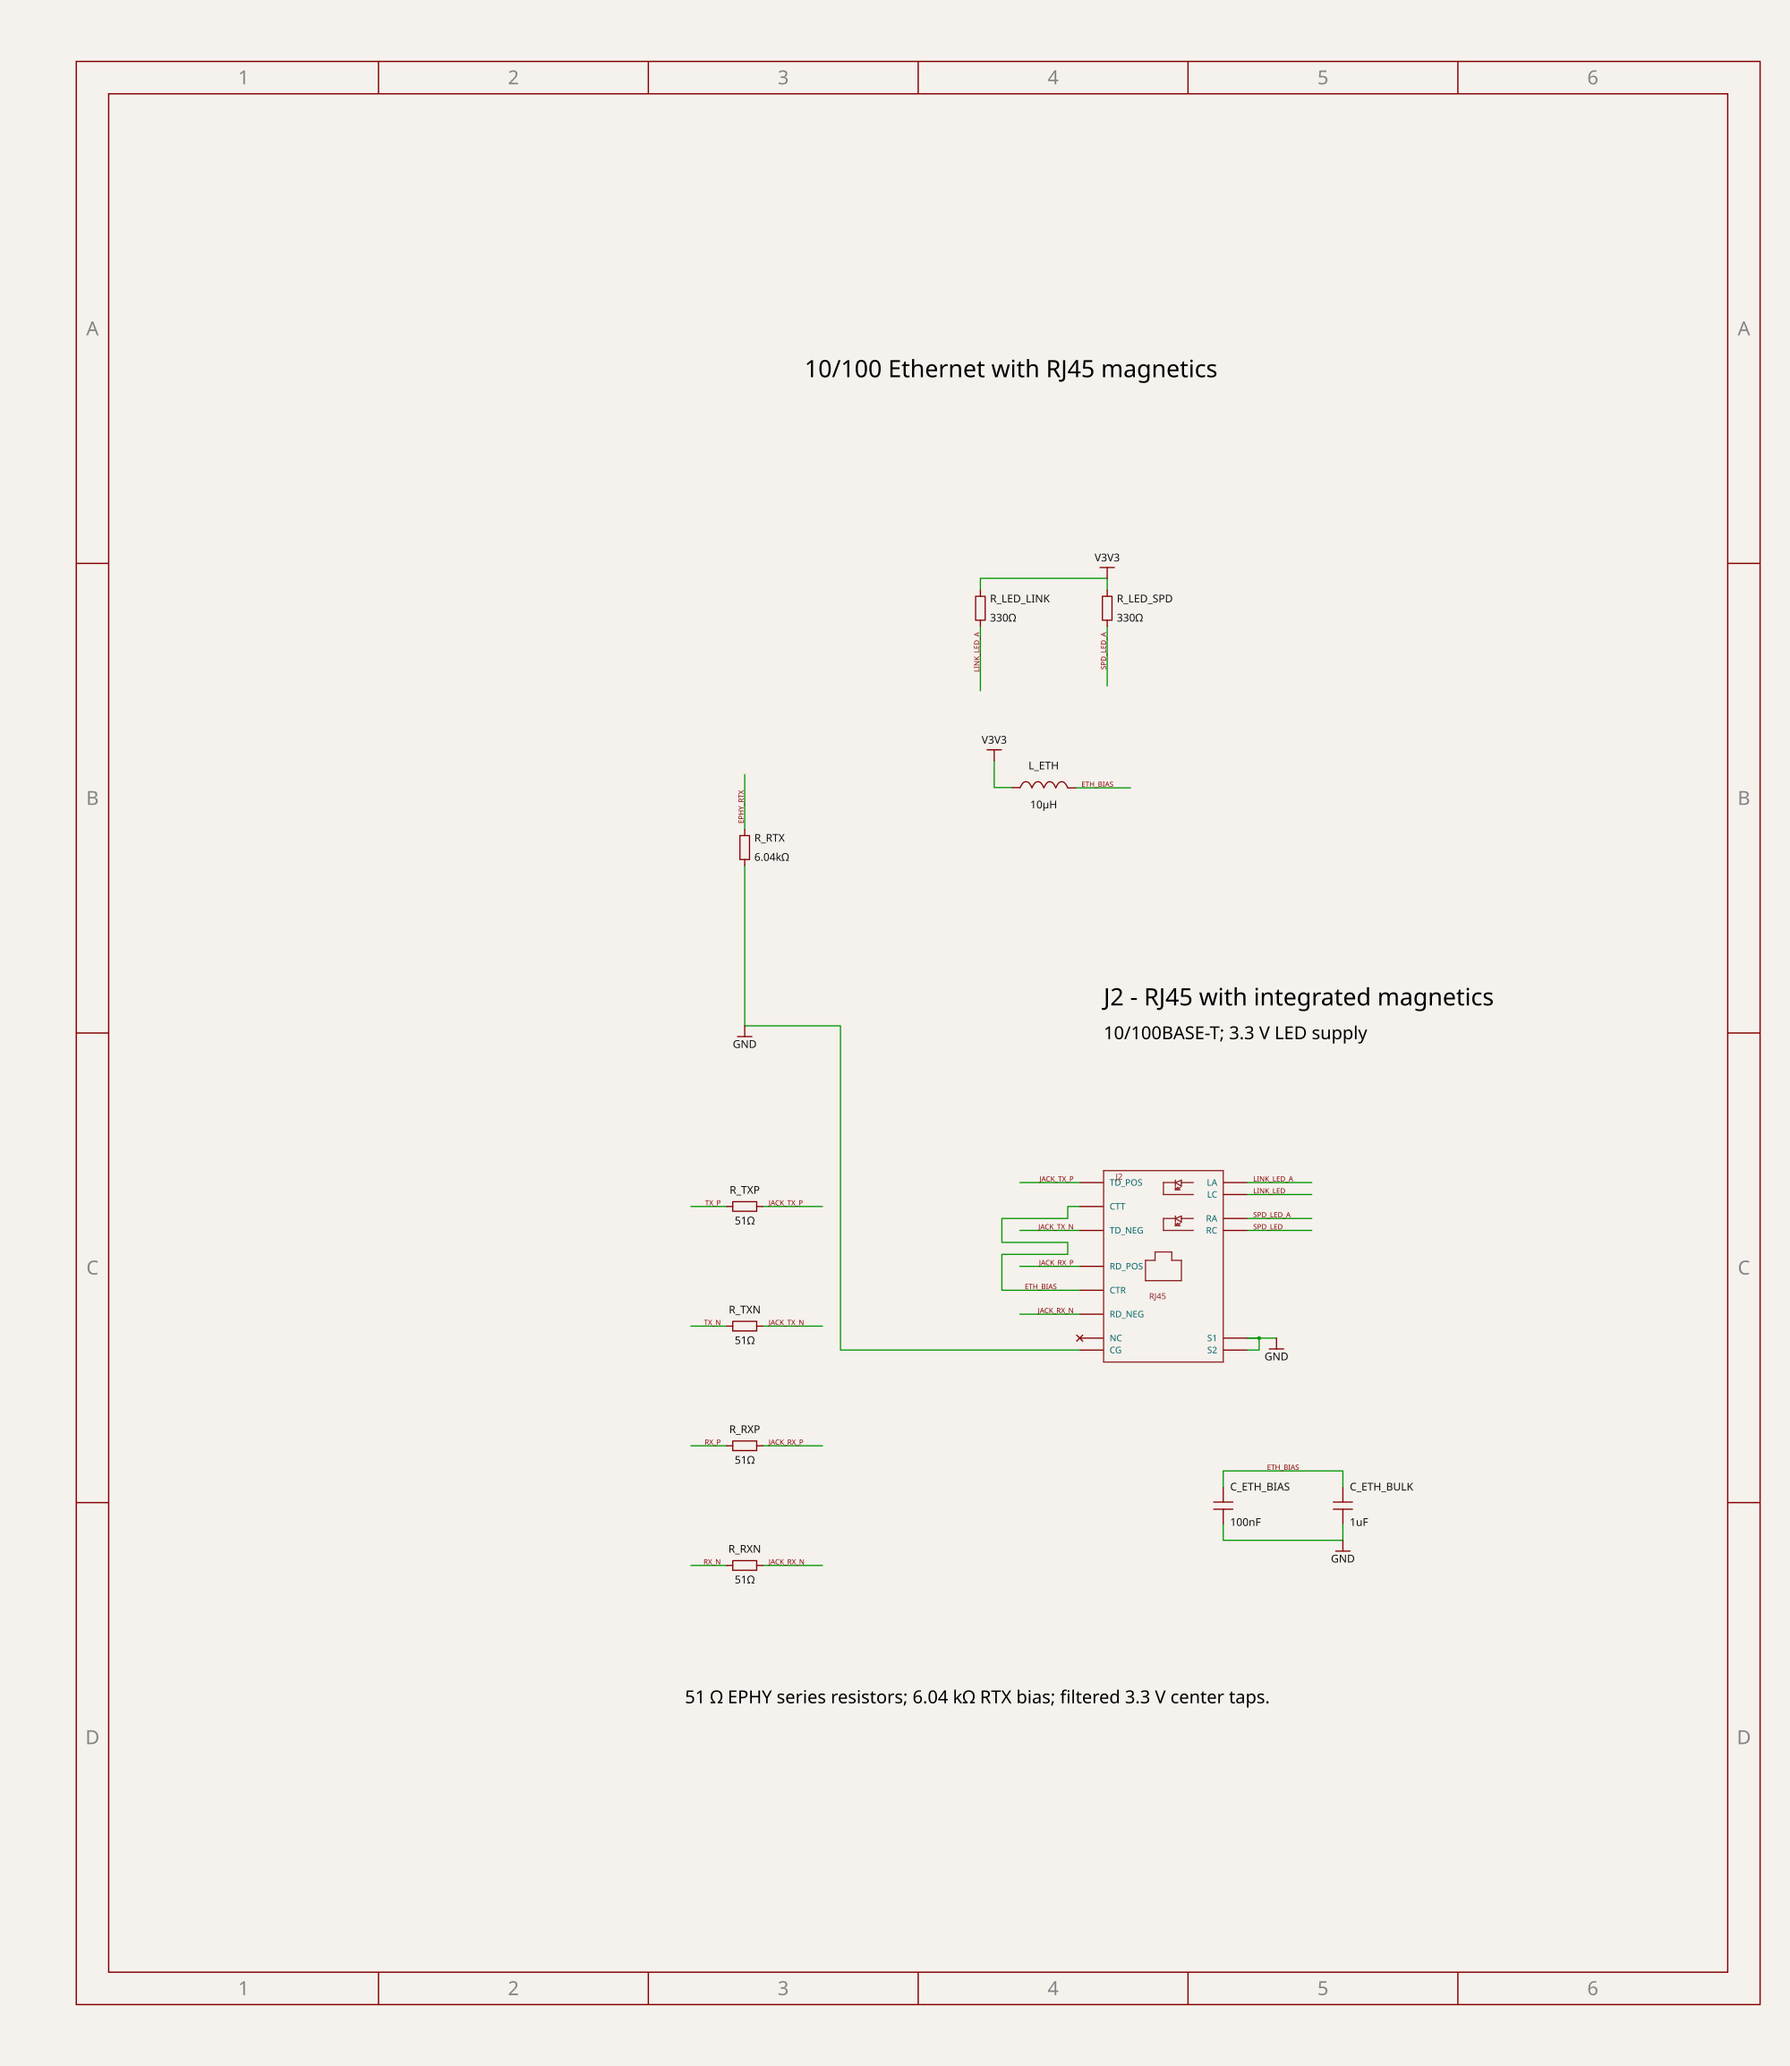
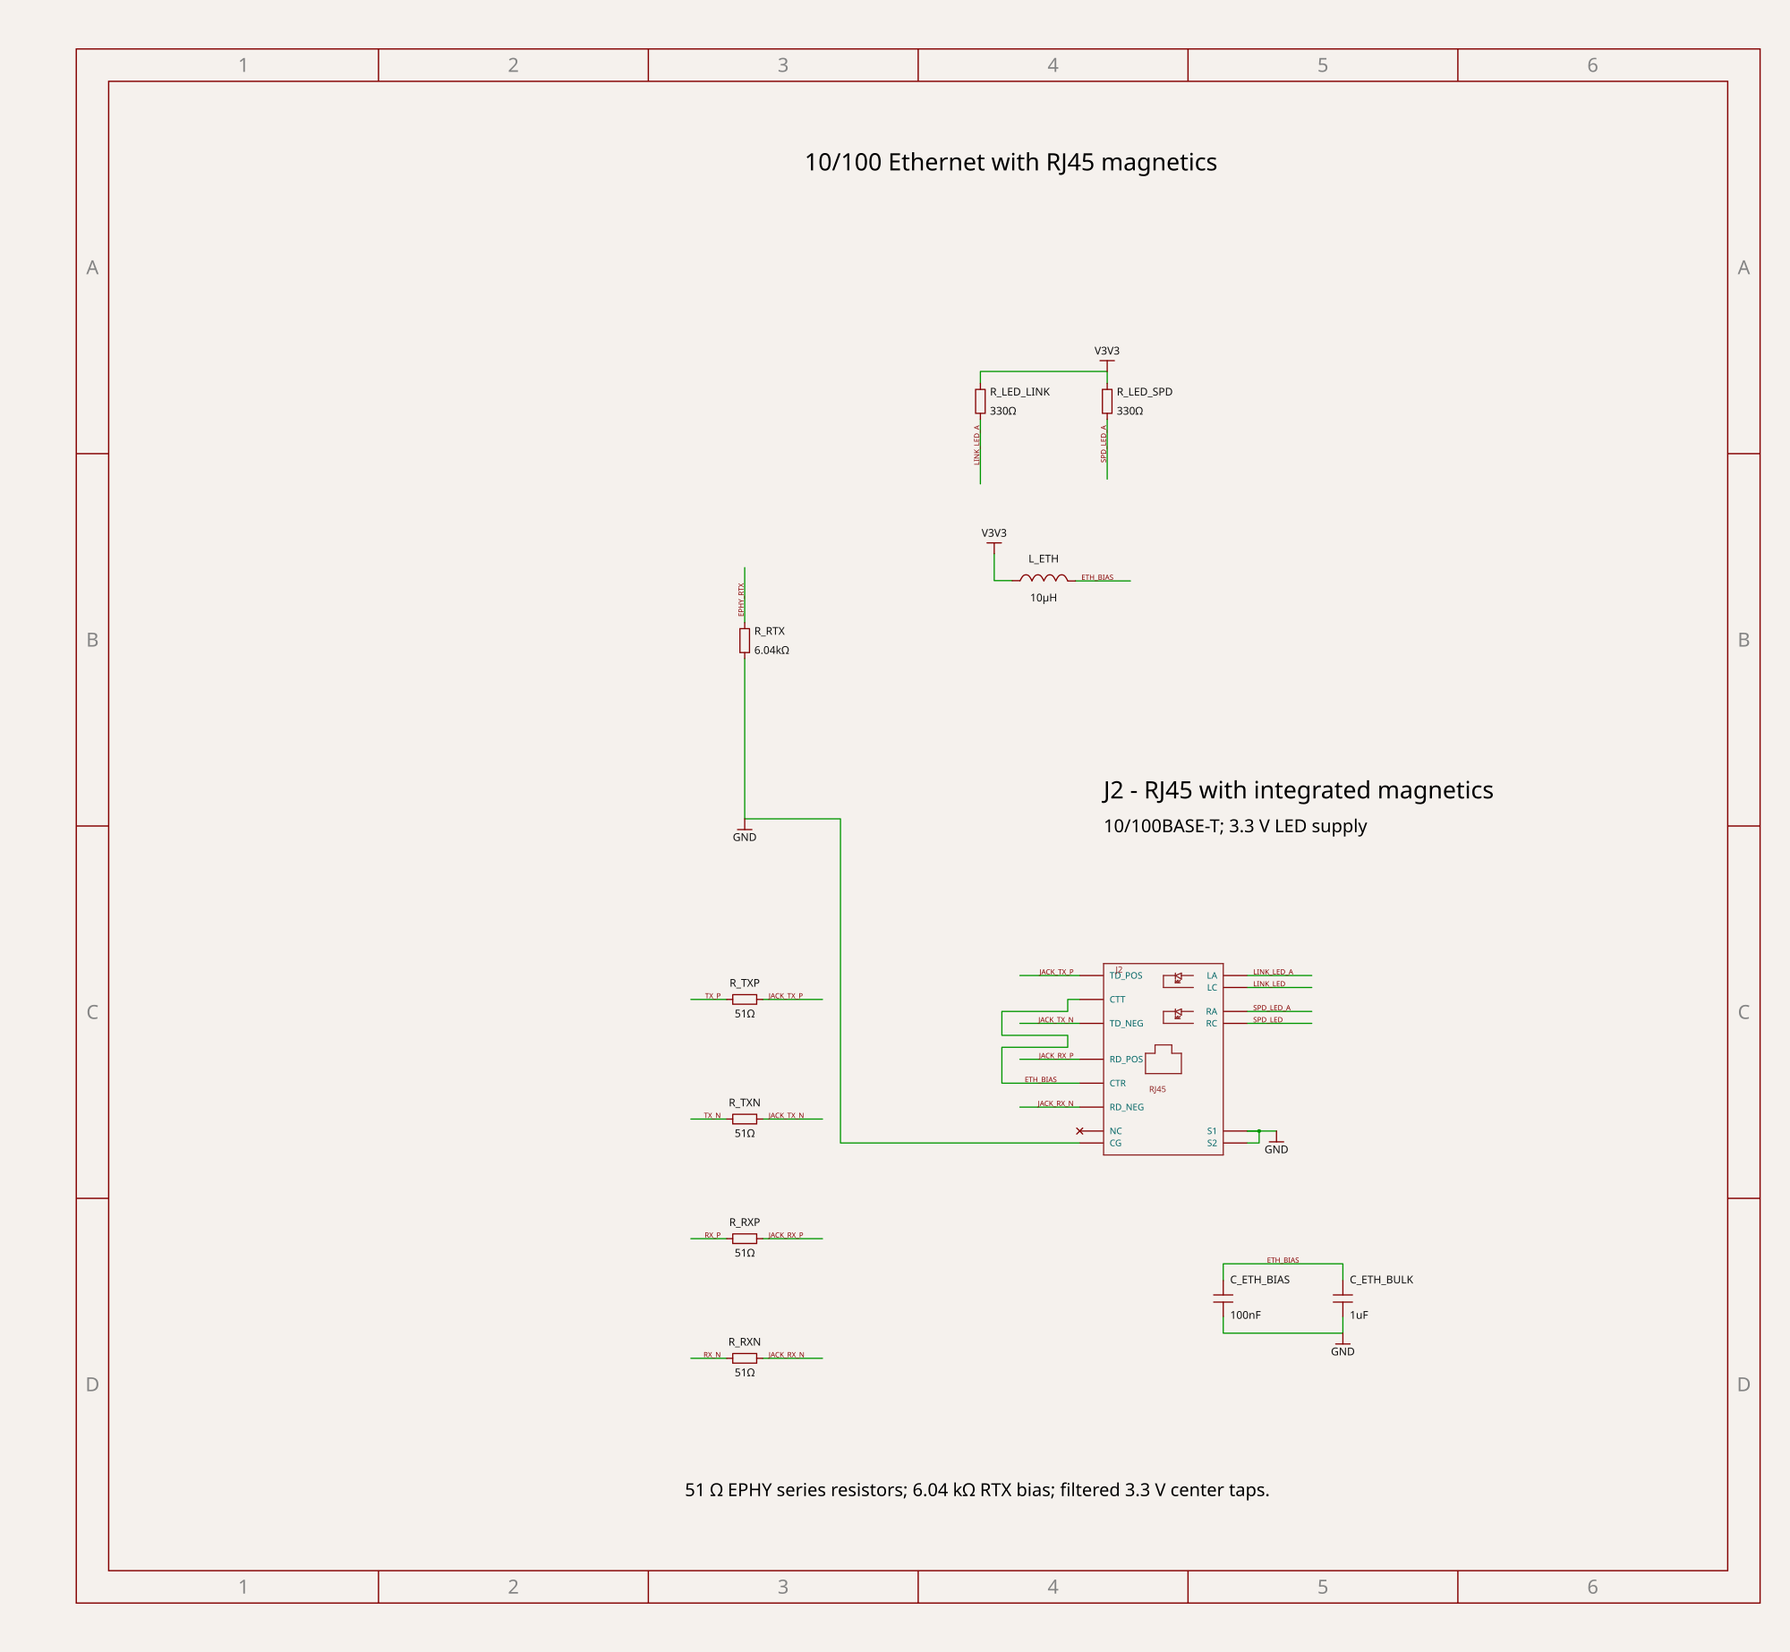
Tighten schematic sheet layouts

diff --git a/index.circuit.tsx b/index.circuit.tsx
@@ -208,24 +208,27 @@ const pcbReverse = new Set([
   "C_SD", "C_X24_IN", "C_X32_IN", "C_1V8_BULK", "C_DRAM_2", "C_DRAM_6", "C_IO_6", "C_PWRON",
 ])
 
+const powerSchematicY = (sectionName: string, y: number) =>
+  y + (sectionName === "pmic" ? 6 : 0)
+
 export default function MinimalV3sEthernet({ routingDisabled = false }: { routingDisabled?: boolean } = {}) {
   // Keep manual schematic coordinates fixed across sheets.
   return (
     <board width="80mm" height="70mm" layers={4} routingDisabled={routingDisabled} schLayout={{ layoutMode: "relative" }}>
       <copperpour connectsTo="net.GND" layer="inner1" clearance="0.15mm" boardEdgeMargin="0.25mm" />
-      <schematicsheet name="Power" displayName="Power input and PMIC" sheetIndex={0} sheetWidth="360mm" sheetHeight="520mm">
+      <schematicsheet name="Power" displayName="Power input and PMIC" sheetIndex={0} sheetWidth="360mm" sheetHeight="450mm">
         <schematicsection name="input" />
         <schematicsection name="pmic" />
         <schematictext text="USB-C input and 3.3 V regulator" schX={-35} schY={23} fontSize={0.4} anchor="left" />
         <schematictext text="USB1 is a 5 V sink; CC1 and CC2 each have a 5.1 kΩ pull-down." schX={-35} schY={22.2} fontSize={0.3} anchor="left" />
-        <schematictext text="PMIC and sequenced rails" schX={-33} schY={-4} fontSize={0.4} anchor="left" />
-        <schematictext text="U2 - AXP203 power manager" schX={-29.5} schY={-7} fontSize={0.4} anchor="left" />
-        <schematictext text="5 V in; 1.2 V core, 1.8 V DRAM, 3.0 V analog and 3.3 V RTC rails." schX={-29.5} schY={-7.6} fontSize={0.3} anchor="left" />
+        <schematictext text="PMIC and sequenced rails" schX={-33} schY={2} fontSize={0.4} anchor="left" />
+        <schematictext text="U2 - AXP203 power manager" schX={-29.5} schY={-1} fontSize={0.4} anchor="left" />
+        <schematictext text="5 V in; 1.2 V core, 1.8 V DRAM, 3.0 V analog and 3.3 V RTC rails." schX={-29.5} schY={-1.6} fontSize={0.3} anchor="left" />
         <schematictext text="U3 - AP61100 buck regulator" schX={-29.5} schY={16.3} fontSize={0.4} anchor="left" />
         <schematictext text="5 V to 3.3 V for I/O, microSD and Ethernet LEDs." schX={-29.5} schY={15.7} fontSize={0.3} anchor="left" />
-        <schematictext text="SW_PWR pulls PWRON low through R_PWRON to start the PMIC." schX={-34} schY={-24.5} fontSize={0.3} anchor="left" />
+        <schematictext text="SW_PWR pulls PWRON low through R_PWRON to start the PMIC." schX={-34} schY={-18.5} fontSize={0.3} anchor="left" />
       </schematicsheet>
-      <schematicsheet name="V3s" displayName="V3s and clocks" sheetIndex={1} sheetWidth="400mm" sheetHeight="420mm">
+      <schematicsheet name="V3s" displayName="V3s and clocks" sheetIndex={1} sheetWidth="400mm" sheetHeight="390mm">
         <schematicsection name="cpu" />
         <schematictext text="V3s, clocks and decoupling" schX={-11} schY={23.5} fontSize={0.4} anchor="left" />
         <schematictext text="U1 - Allwinner V3s SoC" schX={-11} schY={22.8} fontSize={0.4} anchor="left" />
@@ -234,14 +237,14 @@ export default function MinimalV3sEthernet({ routingDisabled = false }: { routin
         <schematictext text="Y1 provides the 24 MHz main clock with 12 pF load capacitance." schX={7} schY={9.8} fontSize={0.3} anchor="left" />
         <schematictext text="Y2 - 32.768 kHz RTC crystal" schX={10.5} schY={18.1} fontSize={0.4} anchor="left" />
       </schematicsheet>
-      <schematicsheet name="Ethernet" displayName="10/100 Ethernet" sheetIndex={2} sheetWidth="260mm" sheetHeight="300mm">
+      <schematicsheet name="Ethernet" displayName="10/100 Ethernet" sheetIndex={2} sheetWidth="260mm" sheetHeight="240mm">
         <schematicsection name="ethernet" />
         <schematictext text="10/100 Ethernet with RJ45 magnetics" schX={20} schY={19} fontSize={0.4} anchor="left" />
         <schematictext text="J2 - RJ45 with integrated magnetics" schX={25} schY={8.5} fontSize={0.4} anchor="left" />
         <schematictext text="10/100BASE-T; 3.3 V LED supply" schX={25} schY={7.9} fontSize={0.3} anchor="left" />
         <schematictext text="51 Ω EPHY series resistors; 6.04 kΩ RTX bias; filtered 3.3 V center taps." schX={18} schY={-3.2} fontSize={0.3} anchor="left" />
       </schematicsheet>
-      <schematicsheet name="Boot and UART" displayName="Boot and UART" sheetIndex={3} sheetWidth="400mm" sheetHeight="180mm">
+      <schematicsheet name="Boot and UART" displayName="Boot and UART" sheetIndex={3} sheetWidth="400mm" sheetHeight="100mm">
         <schematicsection name="boot" />
         <schematicsection name="uart" />
         <schematictext text="microSD boot" schX={-2} schY={-23.5} fontSize={0.4} anchor="left" />
@@ -251,7 +254,7 @@ export default function MinimalV3sEthernet({ routingDisabled = false }: { routin
       </schematicsheet>
 
       <V3s name="U1" pcbX={0} pcbY={0} schX={0} schY={0} schSectionName="cpu" schSheetName="V3s" />
-      <AXP203 name="U2" pcbX={-22} pcbY={-13} schX={-24} schY={-12} schHeight={5} schSectionName="pmic" schSheetName="Power" />
+      <AXP203 name="U2" pcbX={-22} pcbY={-13} schX={-24} schY={-6} schHeight={5} schSectionName="pmic" schSheetName="Power" />
       <AP61100Z6_7 name="U3" pcbX={-25} pcbY={13} schX={-26} schY={11} schSectionName="input" schSheetName="Power" />
       <TF_01A name="J1" pcbX={2} pcbY={-25} schX={0} schY={-27} schHeight={1.4} schSectionName="boot" schSheetName="Boot and UART" />
       <J0011D21BNL name="J2" pcbX={26} pcbY={21.8} schX={26} schY={4} schSectionName="ethernet" schSheetName="Ethernet" />
@@ -259,17 +262,17 @@ export default function MinimalV3sEthernet({ routingDisabled = false }: { routin
       <pinheader name="J4" pinCount={4} pitch="2.54mm" gender="male" pcbX={27} pcbY={-29} schX={25} schY={-28} schSectionName="uart" schSheetName="Boot and UART" />
       <X322524MOB4SI name="Y1" loadCapacitance="12pF" pcbX={5.8} pcbY={11} pcbRotation={90} schX={9} schY={12} schSectionName="cpu" schSheetName="V3s" />
       <Q13FC13500004 name="Y2" pcbX={17} pcbY={10} schX={15.3} schY={17.3} schRotation={180} schSectionName="cpu" schSheetName="V3s" />
-      <pushbutton name="SW_PWR" footprint="smdpushbutton" pcbX={-33} pcbY={-20} schX={-30} schY={-22} schSectionName="pmic" schSheetName="Power" />
-      <inductor name="L_CORE" inductance="4.7uH" footprint="1210" pcbX={-28.5} pcbY={-13.6} pcbRotation={180} schX={-19} schY={-9} schSectionName="pmic" schSheetName="Power" />
-      <inductor name="L_DRAM" inductance="4.7uH" footprint="1210" pcbX={-15} pcbY={-16} schX={-17} schY={-9} schSectionName="pmic" schSheetName="Power" />
+      <pushbutton name="SW_PWR" footprint="smdpushbutton" pcbX={-33} pcbY={-20} schX={-30} schY={-16} schSectionName="pmic" schSheetName="Power" />
+      <inductor name="L_CORE" inductance="4.7uH" footprint="1210" pcbX={-28.5} pcbY={-13.6} pcbRotation={180} schX={-19} schY={-3} schSectionName="pmic" schSheetName="Power" />
+      <inductor name="L_DRAM" inductance="4.7uH" footprint="1210" pcbX={-15} pcbY={-16} schX={-17} schY={-3} schSectionName="pmic" schSheetName="Power" />
       <inductor name="L_3V3" inductance="1uH" footprint="1210" pcbX={-21} pcbY={13} schX={-23} schY={11} schSectionName="input" schSheetName="Power" />
       <inductor name="L_ETH" inductance="10uH" footprint="0805" pcbX={13} pcbY={22} schX={24} schY={12} schSectionName="ethernet" schSheetName="Ethernet" />
       {resistors.map(([name, resistance, x, y]) => (
-        <resistor key={name} name={name} resistance={resistance} footprint="0402" pcbX={resistorPcb[name]?.[0] ?? x} pcbY={resistorPcb[name]?.[1] ?? y} pcbRotation={pcbReverse.has(name) ? 180 : 0} schX={resistorSch[name]?.[0] ?? x} schY={resistorSch[name]?.[1] ?? y} schRotation={name.startsWith("R_TX") || name.startsWith("R_RX") || name === "R_X32" || name === "R_PWRON" ? 0 : -90} schSectionName={resistorSectionName(name)} schSheetName={sheetForSection[resistorSectionName(name)]} />
+        <resistor key={name} name={name} resistance={resistance} footprint="0402" pcbX={resistorPcb[name]?.[0] ?? x} pcbY={resistorPcb[name]?.[1] ?? y} pcbRotation={pcbReverse.has(name) ? 180 : 0} schX={resistorSch[name]?.[0] ?? x} schY={powerSchematicY(resistorSectionName(name), resistorSch[name]?.[1] ?? y)} schRotation={name.startsWith("R_TX") || name.startsWith("R_RX") || name === "R_X32" || name === "R_PWRON" ? 0 : -90} schSectionName={resistorSectionName(name)} schSheetName={sheetForSection[resistorSectionName(name)]} />
       ))}
       {capacitors.map(([name, capacitance, x, y, rail]) => (
         <React.Fragment key={name}>
-          <capacitor name={name} capacitance={capacitance} footprint={capacitance === "22uF" ? "1206" : capacitance === "10uF" || capacitance === "4.7uF" ? "0805" : "0402"} pcbX={capacitorPcb[name]?.[0] ?? x} pcbY={capacitorPcb[name]?.[1] ?? y} pcbRotation={pcbReverse.has(name) ? 180 : 0} schX={capacitorSch[name]?.[0] ?? x} schY={capacitorSch[name]?.[1] ?? y} schRotation={-90} schSectionName={capacitorSectionName(name)} schSheetName={sheetForSection[capacitorSectionName(name)]} />
+          <capacitor name={name} capacitance={capacitance} footprint={capacitance === "22uF" ? "1206" : capacitance === "10uF" || capacitance === "4.7uF" ? "0805" : "0402"} pcbX={capacitorPcb[name]?.[0] ?? x} pcbY={capacitorPcb[name]?.[1] ?? y} pcbRotation={pcbReverse.has(name) ? 180 : 0} schX={capacitorSch[name]?.[0] ?? x} schY={powerSchematicY(capacitorSectionName(name), capacitorSch[name]?.[1] ?? y)} schRotation={-90} schSectionName={capacitorSectionName(name)} schSheetName={sheetForSection[capacitorSectionName(name)]} />
           <trace from={`${name}.pin1`} to={`net.${rail}`} />
           <trace from={`${name}.pin2`} to="net.GND" />
         </React.Fragment>
